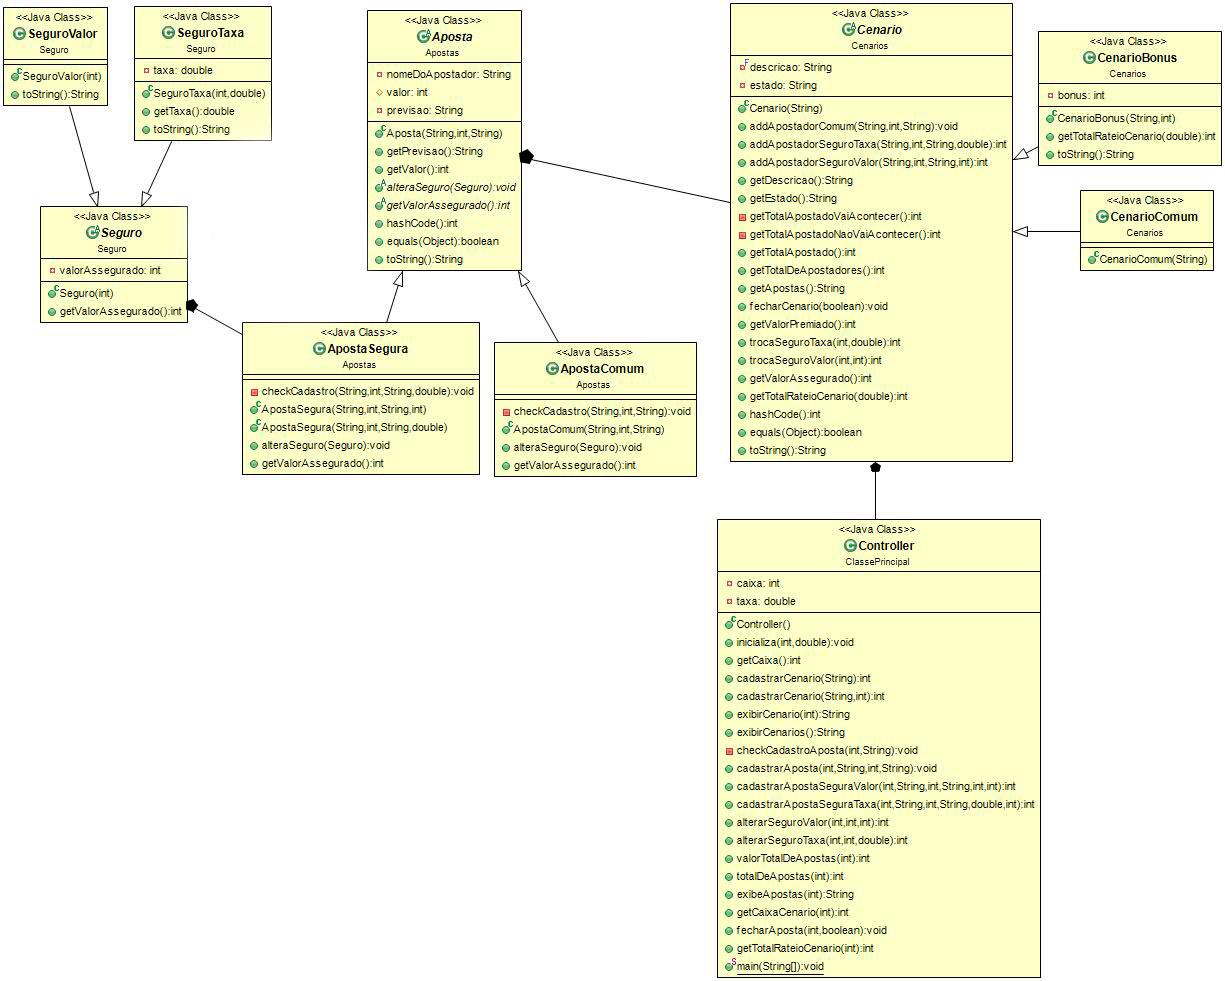
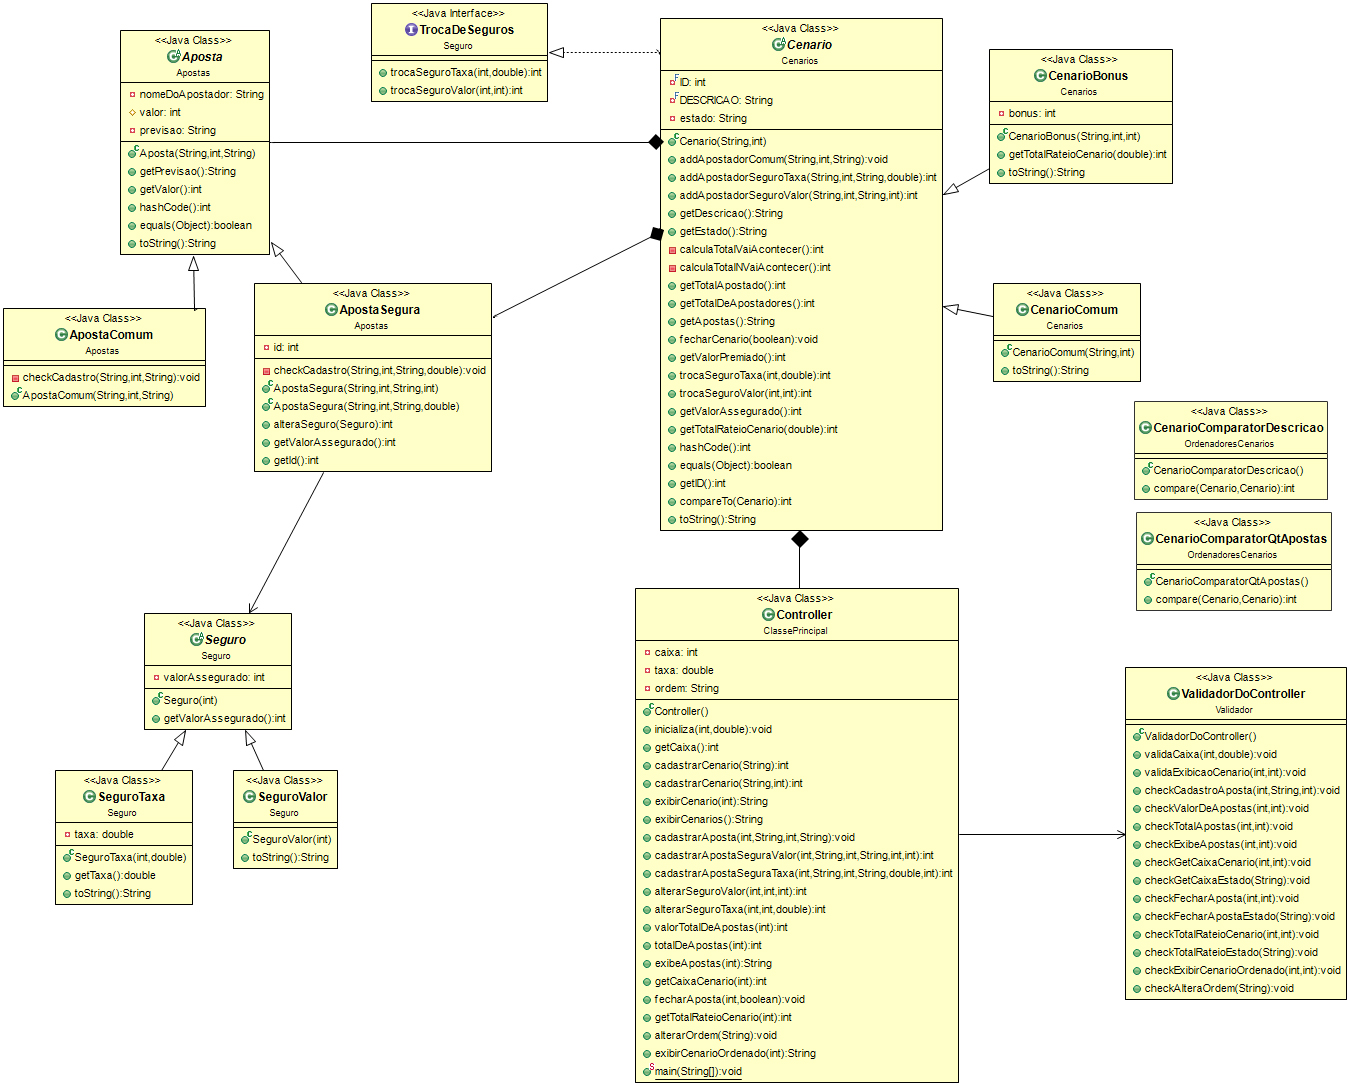
Completo - v6.0

diff --git a/src/ClassePrincipal/Controller.java b/src/ClassePrincipal/Controller.java
@@ -13,12 +13,14 @@ import Validador.ValidadorDoController;
 import easyaccept.EasyAccept;
 
 public class Controller {
+
 	
 	private List<Cenario> cenarios;
 	private int caixa;
 	private double taxa;
 	ValidadorDoController validar;
 	private String ordem;
+	
 	
 	public void inicializa(int caixa, double taxa) {
 		this.validar = new ValidadorDoController();
@@ -29,14 +31,17 @@ public class Controller {
 		this.ordem = "cadastro";
 	}
 	
+	
 	public int getCaixa() {
 		return this.caixa;
 	}
+	
 	
 	public int cadastrarCenario(String descricao) {
 		this.cenarios.add(new CenarioComum(descricao, this.cenarios.size()));
 		return this.cenarios.size();
 	}
+	
 	
 	public int cadastrarCenario(String descricao, int bonus) {
 		this.caixa -= bonus;
@@ -44,10 +49,12 @@ public class Controller {
 		return this.cenarios.size();
 	}
 	
+	
 	public String exibirCenario(int cenario) {
 		this.validar.validaExibicaoCenario(cenario, this.cenarios.size());
 		return cenario + " - " + this.cenarios.get(cenario - 1);
 	}
+	
 	
 	public String exibirCenarios() {
 		String output = "";
@@ -56,10 +63,12 @@ public class Controller {
 		} return output == "" ? "Não há cenarios cadastrados." : output;
 	}
 	
+	
 	public void cadastrarAposta(int cenario, String apostador, int valor, String previsao) {
 		this.validar.checkCadastroAposta(cenario, "", this.cenarios.size());
 		this.cenarios.get(cenario - 1).addApostadorComum(apostador, valor, previsao);
 	}
+	
 	
 	public int cadastrarApostaSeguraValor(int cenario, String apostador, int valor, String previsao, int valorAssegurado, int custo) {
 		this.validar.checkCadastroAposta(cenario, " assegurada por valor", this.cenarios.size());
@@ -67,31 +76,37 @@ public class Controller {
 		return this.cenarios.get(cenario - 1).addApostadorSeguroValor(apostador, valor, previsao, valorAssegurado);
 	}
 	
+	
 	public int cadastrarApostaSeguraTaxa(int cenario, String apostador, int valor, String previsao, double taxa, int custo) {
 		this.validar.checkCadastroAposta(cenario, " assegurada por taxa", this.cenarios.size());
 		this.caixa += custo;
 		return this.cenarios.get(cenario - 1).addApostadorSeguroTaxa(apostador, valor, previsao, taxa);
 	}
 	
+	
 	public int alterarSeguroValor(int cenario, int apostaAssegurada, int valor) {
 		this.cenarios.get(cenario - 1).trocaSeguroValor(apostaAssegurada, valor);
 		return apostaAssegurada;
 	}
+	
 	
 	public int alterarSeguroTaxa(int cenario, int apostaAssegurada, double valor) {
 		 this.cenarios.get(cenario - 1).trocaSeguroTaxa(apostaAssegurada, valor);
 		 return apostaAssegurada;
 	}
 	
+	
 	public int valorTotalDeApostas(int cenario) {
 		this.validar.checkValorDeApostas(cenario, this.cenarios.size());
 		return this.cenarios.get(cenario - 1).getTotalApostado();
 	}
 	
+	
 	public int totalDeApostas(int cenario) {
 		this.validar.checkTotalApostas(cenario, this.cenarios.size());
 		return this.cenarios.get(cenario - 1).getTotalDeApostadores();
 	}
+	
 	
 	public String exibeApostas(int cenario) {
 		this.validar.checkExibeApostas(cenario, this.cenarios.size());
@@ -99,11 +114,13 @@ public class Controller {
 		return output == "" ? "Não há apostadores cadastrados nesse cenário." : output;
 	}
 	
+	
 	public int getCaixaCenario(int cenario) {
 		this.validar.checkGetCaixaCenario(cenario, this.cenarios.size());
 		this.validar.checkGetCaixaEstado(this.cenarios.get(cenario - 1).getEstado());
 		return (int) (this.cenarios.get(cenario - 1).getValorPremiado() * this.taxa);
 	}
+	
 	
 	public void fecharAposta(int cenario, boolean ocorreu) {
 		this.validar.checkFecharAposta(cenario, this.cenarios.size());
@@ -112,40 +129,40 @@ public class Controller {
 		this.caixa += this.getCaixaCenario(cenario) - this.cenarios.get(cenario - 1).getValorAssegurado();
 	}
 	
+	
 	public int getTotalRateioCenario(int cenario) {
 		this.validar.checkTotalRateioCenario(cenario, this.cenarios.size());
 		this.validar.checkTotalRateioEstado(this.cenarios.get(cenario - 1).getEstado());
 		return this.cenarios.get(cenario - 1).getTotalRateioCenario(this.taxa);
 	}
 	
+	
 	public void alterarOrdem(String ordem) {
-		if (!ordem.equalsIgnoreCase("cadastro") && !ordem.equalsIgnoreCase("Nome") && !ordem.equalsIgnoreCase("Apostas")) {
-		} else {
-			this.ordem = ordem.toLowerCase();
-		}
+		this.validar.checkAlteraOrdem(ordem);
+		this.ordem = ordem.toLowerCase();
 	}
 	
+	
 	public String exibirCenarioOrdenado(int cenario) {
+		this.validar.checkExibirCenarioOrdenado(cenario, this.cenarios.size());
 		if (this.ordem.equals("nome")) {
 			Collections.sort(this.cenarios, new CenarioComparatorDescricao());
 		}
 		else if (this.ordem.equals("apostas")) {
 			Collections.sort(this.cenarios, new CenarioComparatorQtApostas());
 		}
-		else if (this.ordem.equals("cadastro")) {
+		else {
 			Collections.sort(this.cenarios);
 		}
-		else {
-			throw new NullPointerException();
-		}
-		String saida = this.cenarios.get(cenario - 1).toString();
+		String saida = this.cenarios.get(cenario - 1).getID() + " - " + this.cenarios.get(cenario - 1).toString();
 		Collections.sort(this.cenarios);
 		return saida;
 	}
 	
+	
 	public static void main(String[] args) {
 		args = new String[] {"ClassePrincipal.Controller", "TestesAceitacao/us1_test.txt", "TestesAceitacao/us2_test.txt", "TestesAceitacao/us3_test.txt",
-				"TestesAceitacao/us4_test.txt", "TestesAceitacao/us5_test.txt", "TestesAceitacao/us6_test.txt"};
+				"TestesAceitacao/us4_test.txt", "TestesAceitacao/us5_test.txt", "TestesAceitacao/us6_test.txt", "TestesAceitacao/us7_test.txt"};
 		EasyAccept.main(args);
 	}
 }

diff --git a/src/Validador/ValidadorDoController.java b/src/Validador/ValidadorDoController.java
@@ -4,6 +4,7 @@ import Exceptions.CadastroInvalidoException;
 import Exceptions.ConsultaException;
 import Exceptions.ExibicaoException;
 import Exceptions.InicializacaoException;
+import Exceptions.OrdemInvalidaException;
 import Exceptions.PosicaoInvalidaException;
 
 public class ValidadorDoController {
@@ -117,6 +118,26 @@ public class ValidadorDoController {
 	public void checkTotalRateioEstado(String estado) {
 		if (estado.equals("Nao finalizado")) {
 			throw new ConsultaException("do total de rateio do cenario", "Cenario ainda esta aberto");
+		}
+		
+	}
+
+
+	public void checkExibirCenarioOrdenado(int cenario, int size) {
+		if (cenario < 1) {
+			throw new ConsultaException("de cenario ordenado", "Cenario invalido");
+			
+		} else if (cenario > size) {
+			throw new ConsultaException("de cenario ordenado", "Cenario nao cadastrado");
+		}
+	}
+
+	public void checkAlteraOrdem(String ordem) {
+		if (ordem == null || ordem.trim().equals("")) {
+			throw new OrdemInvalidaException("Ordem nao pode ser vazia ou nula");
+		}
+		else if (!ordem.equalsIgnoreCase("cadastro") && !ordem.equalsIgnoreCase("nome") && !ordem.equalsIgnoreCase("apostas")) {
+			throw new OrdemInvalidaException("Ordem invalida");
 		}
 		
 	}

diff --git a/src/Cenarios/Cenario.java b/src/Cenarios/Cenario.java
@@ -11,6 +11,7 @@ import Apostas.ApostaSegura;
 import Exceptions.CaractersInvalidoException;
 import Seguro.SeguroTaxa;
 import Seguro.SeguroValor;
+import Seguro.TrocaDeSeguros;
 
 /**
  * Clase abstrata que representa um cenario composta por apostas, onde o usuario pode cadastrar apostas comuns e seguras.
@@ -18,7 +19,7 @@ import Seguro.SeguroValor;
  * @author CaioTorrez
  *
  */
-public abstract class Cenario implements Comparable<Cenario> {
+public abstract class Cenario implements Comparable<Cenario>, TrocaDeSeguros {
 
 	private final int ID;
 	private final String DESCRICAO;
@@ -38,7 +39,7 @@ public abstract class Cenario implements Comparable<Cenario> {
 			throw new CaractersInvalidoException("de cenario:", "Descricao nao pode ser vazia");
 		}
 		this.DESCRICAO = descricao;
-		this.ID = id;
+		this.ID = id + 1;
 		this.estado = "Nao finalizado";
 		this.apostasComum = new ArrayList<>();
 		this.apostasSeguras = new HashMap<>();

diff --git a/src/OrdenadoresCenarios/CenarioComparatorQtApostas.java b/src/OrdenadoresCenarios/CenarioComparatorQtApostas.java
@@ -4,8 +4,18 @@ import java.util.Comparator;
 
 import Cenarios.Cenario;
 
+/**
+ * Classe que auxilia a ordenação da Classe pai {@link Cenario} e comparar dois cenarios pela quantidade de apostas cadastradas.
+ * 
+ * @author CaioTorrez
+ *
+ */
 public class CenarioComparatorQtApostas implements Comparator<Cenario> {
 
+	/**
+	 * Implementação do metodo {@link Comparator} para ordenacao dos cenarios por apostas cadastradas, caso tenham a mesma
+	 * quantidade de apostas a identificacao sera comparada.
+	 */
 	@Override
 	public int compare(Cenario cenario, Cenario outroCenario) {
 		if (cenario.getTotalDeApostadores() > outroCenario.getTotalDeApostadores()) {
@@ -14,9 +24,9 @@ public class CenarioComparatorQtApostas implements Comparator<Cenario> {
 			return 1;
 		} else {
 			if (cenario.getID() < outroCenario.getID()) {
-				return 1;
-			} else {
 				return -1;
+			} else {
+				return 1;
 			}
 		}
 	}

diff --git a/src/OrdenadoresCenarios/CenarioComparatorDescricao.java b/src/OrdenadoresCenarios/CenarioComparatorDescricao.java
@@ -4,8 +4,18 @@ import java.util.Comparator;
 
 import Cenarios.Cenario;
 
+
+/**
+ * Classe que auxilia a ordenação da Classe pai {@link Cenario} e comparar dois cenarios pela descricao.
+ * 
+ * @author CaioTorrez
+ *
+ */
 public class CenarioComparatorDescricao implements Comparator<Cenario> {
 
+	/**
+	 * Implementação do metodo {@link Comparator} para ordenacao dos cenarios por descricao.
+	 */
 	@Override
 	public int compare(Cenario cenario, Cenario outroCenario) {
 		return cenario.getDescricao().compareTo(outroCenario.getDescricao());
